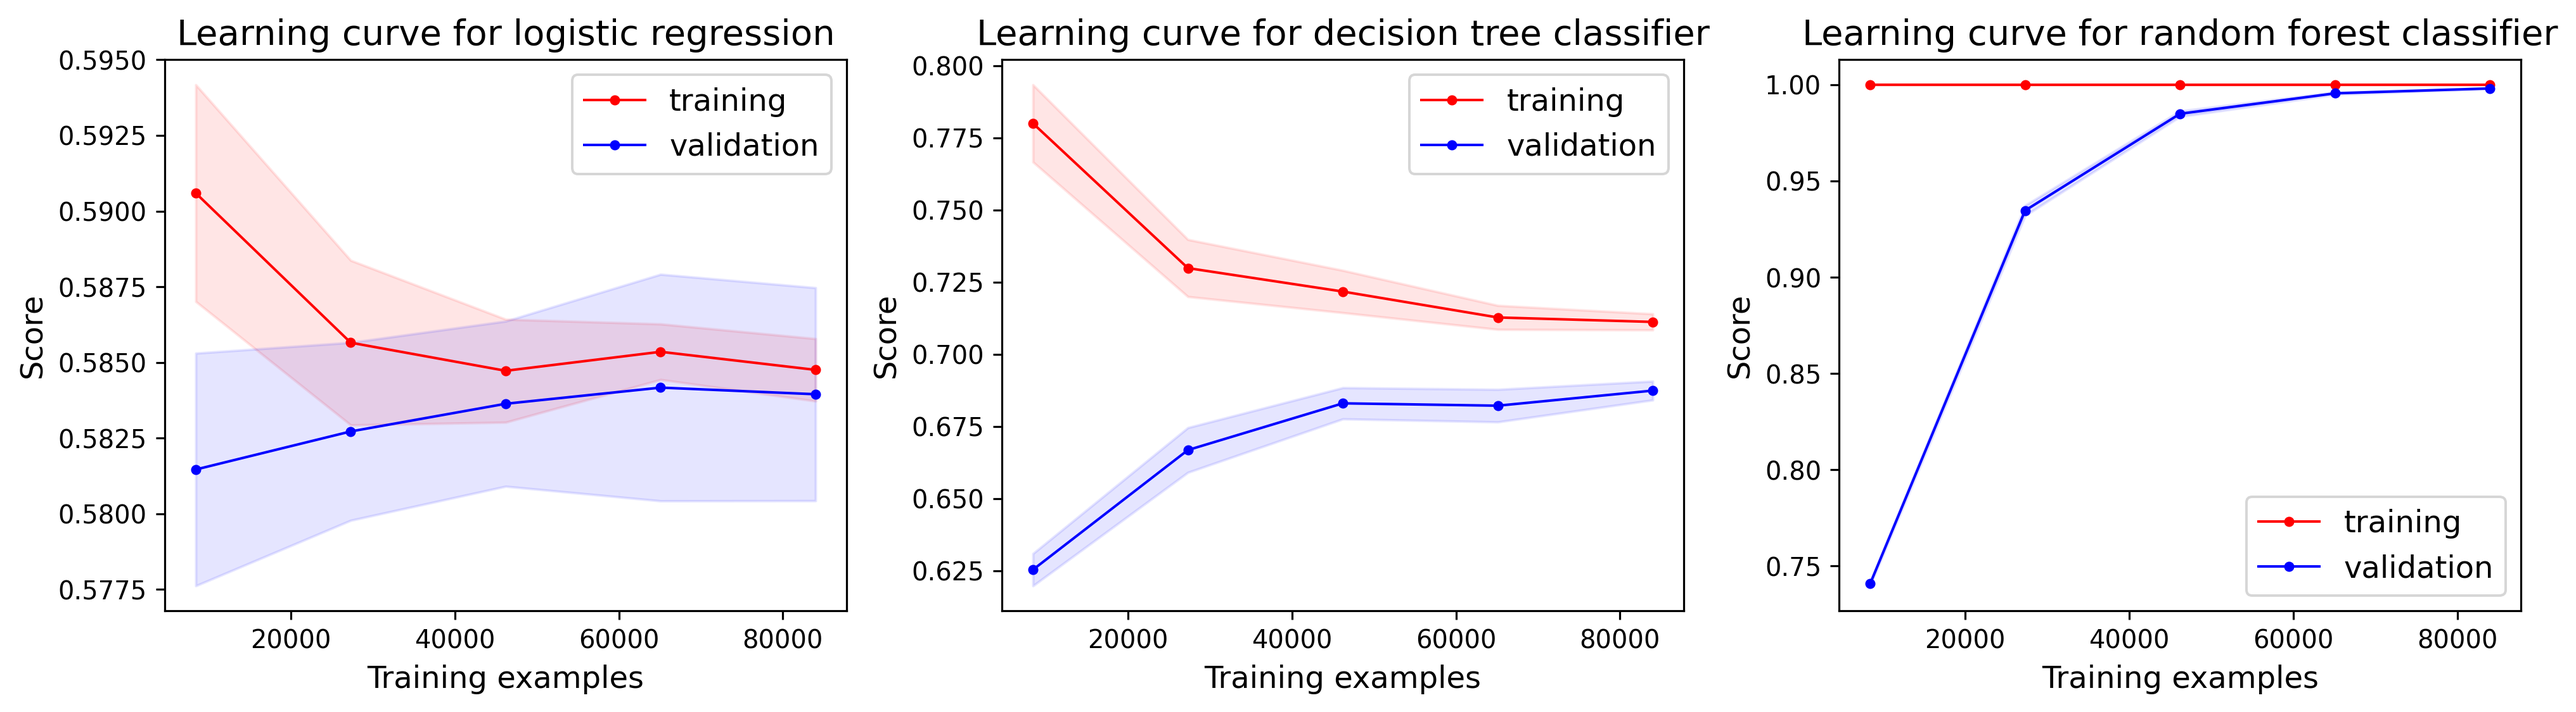
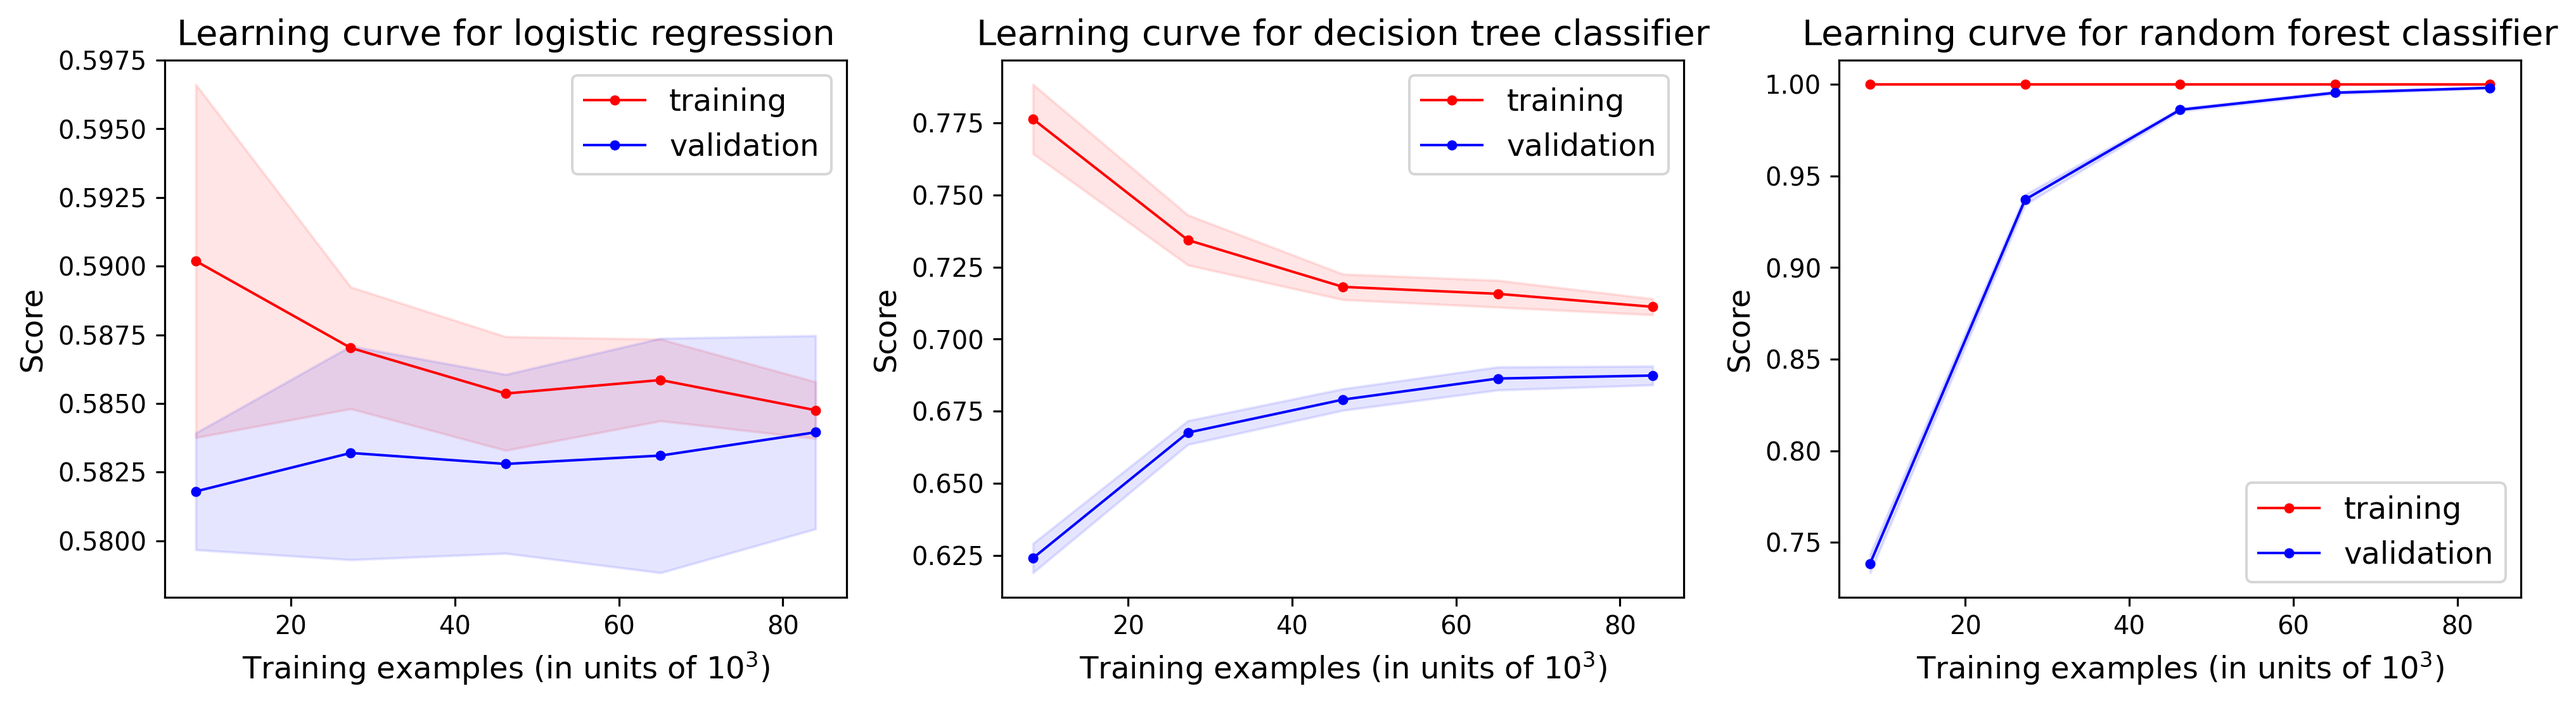
Training examples in units of 1000 on x axis and added shuffle=True for learning_curve

diff --git a/learning_curves_plot.py b/learning_curves_plot.py
@@ -4,12 +4,14 @@ import os
 from pathlib import Path
 import numpy as np
 import pandas as pd
-import matplotlib.pyplot as plt
 from time import time
 from sklearn.model_selection import learning_curve, ShuffleSplit
 from sklearn.ensemble import RandomForestClassifier
 from sklearn.tree import DecisionTreeClassifier
 from sklearn.linear_model import LogisticRegression
+import matplotlib.pyplot as plt
+from matplotlib import ticker
+
 
 home = os.environ['HOME']
 work_dir = Path(home) / 'Programming/Python/machine-learning-exercises/diabetes-in-130-US-hospitals'
@@ -27,7 +29,7 @@ train_sizes = np.linspace(.1, 1.0, 5)
 def learning_curves_data(estimator, X, y, cv=cv, train_sizes=train_sizes):
     train_sizes, train_scores, val_scores = learning_curve(estimator, X, y, cv=cv, n_jobs=-1,
                                                            train_sizes=train_sizes,
-                                                           scoring='accuracy')
+                                                           scoring='accuracy', shuffle=True)
     train_scores_mean = np.mean(train_scores, axis=1)
     train_scores_std = np.std(train_scores, axis=1)
     val_scores_mean = np.mean(val_scores, axis=1)
@@ -52,7 +54,9 @@ for ax, (model_name, model_instance) in zip(axes, model_dict.items()):
     ax.plot(train_sizes, val_scores_means, 'b.-', linewidth=1, label='validation')
     ax.legend(loc='best', fontsize=12)
     ax.set_title('Learning curve for {0:s}'.format(model_name.lower()), fontsize=14)
-    ax.set_xlabel('Training examples', fontsize=12)
+    ax.set_xlabel('Training examples (in units of $10^3$)', fontsize=12)
+    ticks = ticker.FuncFormatter(lambda x, _: '{0:g}'.format(x*1e-3))
+    ax.xaxis.set_major_formatter(ticks)
     ax.set_ylabel('Score', fontsize=12)
 fig.tight_layout()
 plt.savefig(work_dir / 'plots/learning_curves_plot.png', dpi=288, bbox_inches='tight')
